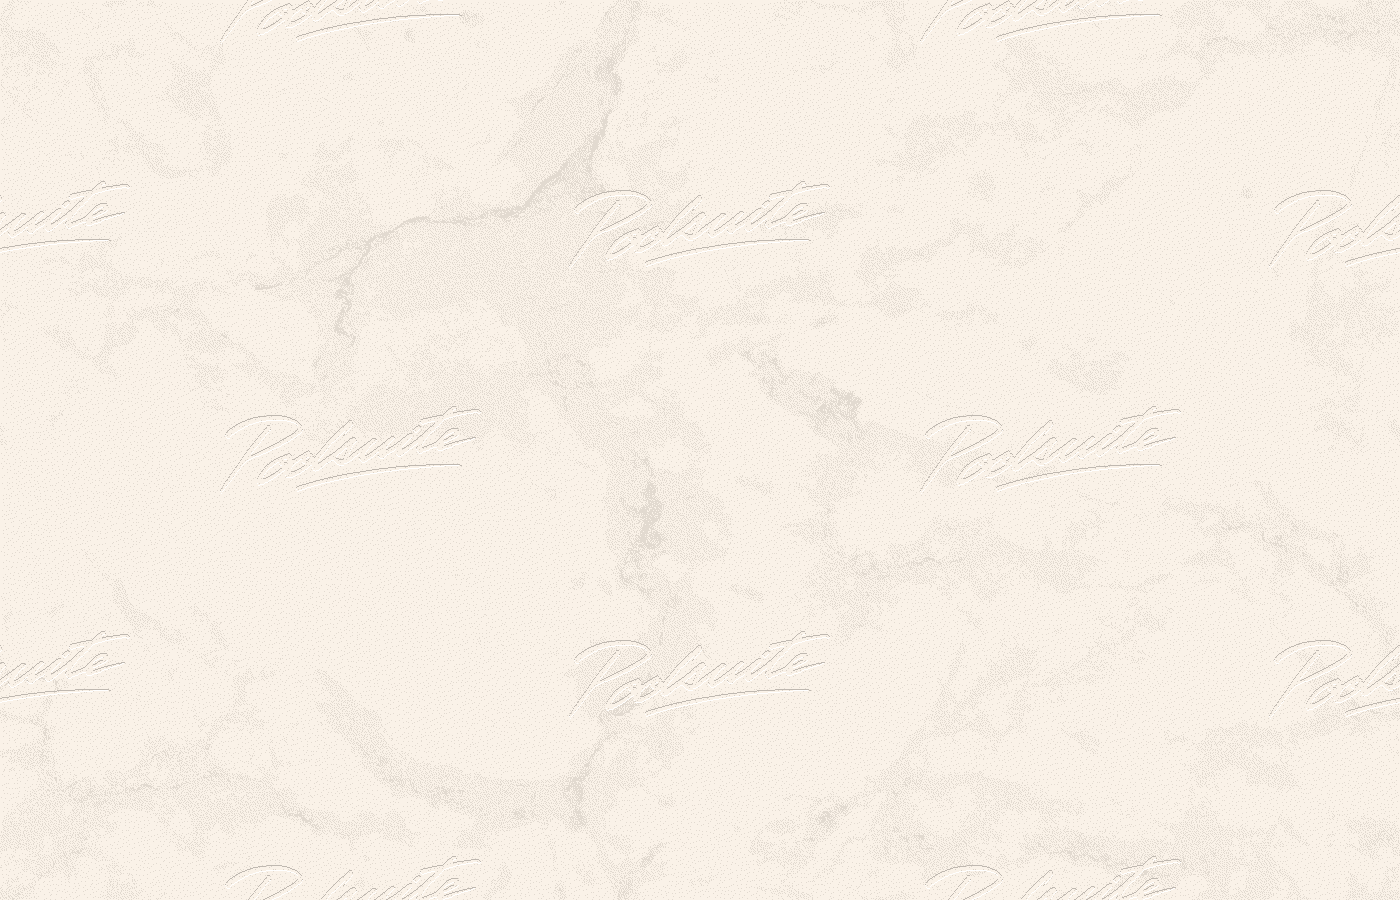
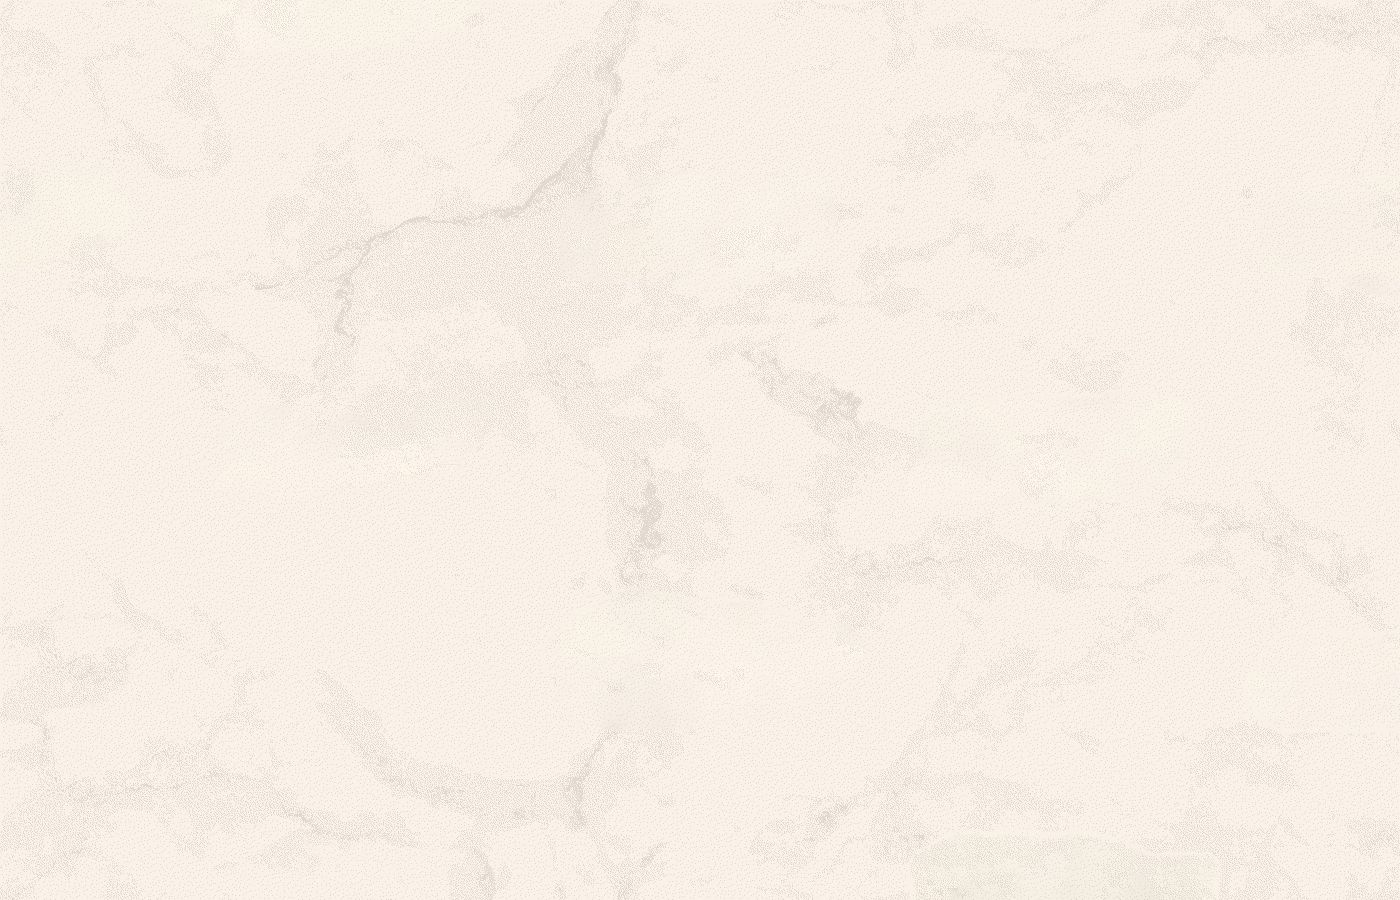
repurposing

diff --git a/src/App.js b/src/App.js
@@ -1,59 +1,63 @@
 import React, { useEffect, useState } from 'react';
-import Mint from './components/Mint/Mint';
-import Wallet from './components/Wallet/Wallet';
+// import Mint from './components/Mint/Mint';
+// import Wallet from './components/Wallet/Wallet';
 import ohshit from './static/ohshit.gif';
+import text from './static/text.png';
 
 import './App.scss';
 
 const App = () => {
-    const [currentAccount, setCurrentAccount] = useState('');
+    // const [currentAccount, setCurrentAccount] = useState('');
     
-    const checkIfWalletIsConnected = async () => {
-        const { ethereum } = window;
+    // const checkIfWalletIsConnected = async () => {
+    //     const { ethereum } = window;
 
-        if (!ethereum) {
-            alert('Make sure you have MetaMask!')
-            return;
-        }
+    //     if (!ethereum) {
+    //         alert('Make sure you have MetaMask!')
+    //         return;
+    //     }
 
-        const chainId = await ethereum.request({ method: 'eth_chainId' });
-        const rinkebyChainId = "0x4";
+    //     const chainId = await ethereum.request({ method: 'eth_chainId' });
+    //     const rinkebyChainId = "0x4";
 
-        if (chainId !== rinkebyChainId) {
-            alert('You are not connected to the Rinkeby Test Network!')
-            return;
-        }
+    //     if (chainId !== rinkebyChainId) {
+    //         alert('You are not connected to the Rinkeby Test Network!')
+    //         return;
+    //     }
 
-        const accounts = await ethereum.request({ method: 'eth_accounts' });
+    //     const accounts = await ethereum.request({ method: 'eth_accounts' });
 
-        if (accounts.length !== 0) {
-            const account = accounts[0];
-            setCurrentAccount(account);
+    //     if (accounts.length !== 0) {
+    //         const account = accounts[0];
+    //         setCurrentAccount(account);
 
-        } else {
-            console.log("No authorized account found")
-        }
-    }
+    //     } else {
+    //         console.log("No authorized account found")
+    //     }
+    // }
 
-    useEffect(() => {
-        checkIfWalletIsConnected();
-    }, []);
+    // useEffect(() => {
+    //     checkIfWalletIsConnected();
+    // }, []);
 
     return (
         <div className='container'>
             <div className='container__header'>
-                <Wallet
+                {/* <Wallet
                   currentAccount={currentAccount}
                   setCurrentAccount={setCurrentAccount} 
-                />
+                /> */}
             </div>
             <div className='container__body'>
                 <div className='container__body-title'>
                     <img src={ohshit} alt="WTF" />
                 </div>
-                {currentAccount.length > 0 && (
+                <div className='container__body-text'>
+                    <img src={text} alt="WTF" />
+                </div>
+                {/* {currentAccount.length > 0 && (
                     <Mint currentAccount={currentAccount} />
-                )}
+                )} */}
             </div>
             <div className='container__footer'>
             </div>

diff --git a/src/App.scss b/src/App.scss
@@ -23,6 +23,13 @@
                 max-width: 100%;
             }
         }
+
+        &-text {
+            text-align: center;
+            img {
+                max-width: 100%;
+            }
+        }
     }
 
     &__footer {
